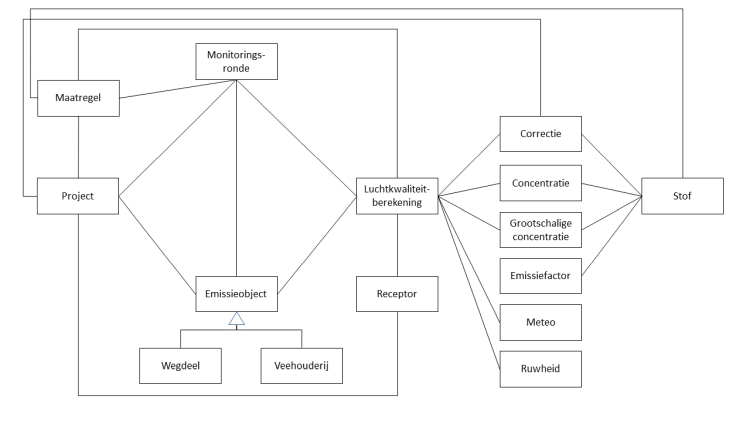
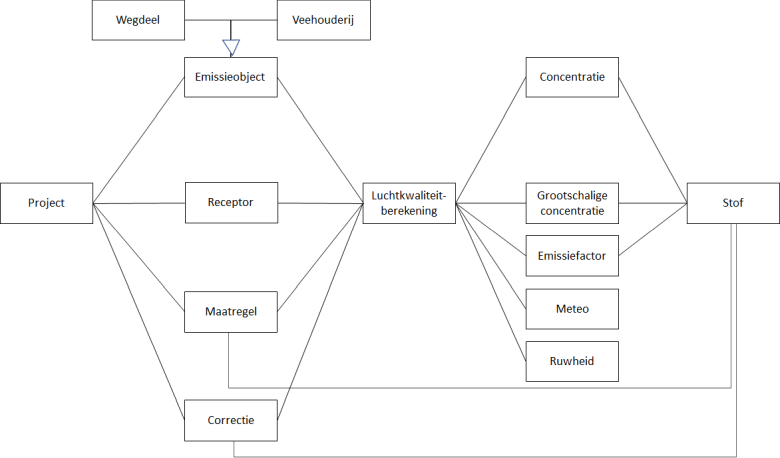
Conceptueel model aangepast
Monitoringronde verwijderd, positionering concepten aangepast

diff --git a/docs/index.html b/docs/index.html
@@ -61,7 +61,7 @@
 	</head>
 	<body>
 		<h1 id="title">Informatiemodel Monitoring Luchtkwaliteit</h1>
-		<h2 id="subtitle">27 oktober 2021</h2>
+		<h2 id="subtitle">1 november 2021</h2>
 		<section id='abstract'>
 			<p>Dit informatiemodel is gericht op de ondersteuning van de monitoring van de luchtkwaliteit in het kader van de Omgevingswet en het Schone Lucht Akkoord. Het is een beschrijving van de gegevens die worden uitgewisseld met het Centraal Instrument Monitoring Luchtkwaliteit (CIMLK). Deze wordt ontwikkeld door RIVM in opdracht van het ministerie van Infrastructuur en Waterstaat.</p>
 		</section>
@@ -198,12 +198,7 @@
 				<section>
 					<h4>Luchtkwaliteitberekening</h4>
 					<p>Het bepalen van de concentraties van stoffen op rekenpunten als gevolg van de emissies van die stoffen door objecten en de verspreiding hiervan in de fysieke leefomgeving.</p>
-					<p>In een luchtkwaliteitberekening worden alle objecten meegenomen die invloed hebben op de verspreiding van de emissies van de emissieobjecten, zoals meteo, ruwheid en emissiefactoren, en op het berekende niveau van de luchtkwaliteit op de locatie waarvoor de berekening uitgevoerd wordt, zoals grootschalige concentraties, correctiegebieden en relevante maatregelen. Het resultaat van een berekening is de jaargemiddelde concentratie per stof op de receptoren die door de gebruiker in het betreffende project aangegeven zijn. Voor PM10 worden ook aantallen overschrijdingsdagen berekend.</p>
-				</section>
-				<section>
-					<h4>Monitoringsronde</h4>
-					<p>Jaarlijkse cyclus van het actualiseren van gegevens en het uitvoeren van luchtkwaliteit-berekeningen op voor de monitoring relevante rekenpunten.</p>
-					<p>In een monitoringsronde worden emissieobjecten en alle gegevens voor een luchtkwaliteitberekening geactualiseerd voor het gepasseerde jaar en één of meerdere toekomstjaren. Hierbij wordt tevens de voortgang van SLA-maatregelen in beeld gebracht om de doelstellingen uit het SLA te monitoren.</p>
+					<p>In een luchtkwaliteitberekening worden alle objecten meegenomen die invloed hebben op de verspreiding van de emissies van de emissieobjecten, zoals meteo, ruwheid en emissiefactoren, en op het berekende niveau van de luchtkwaliteit op de locatie waarvoor de berekening uitgevoerd wordt, zoals grootschalige concentraties, correctiegebieden en relevante maatregelen. Het resultaat van een berekening is de jaargemiddelde concentratie per stof op de receptoren die door de gebruiker in het betreffende project aangegeven zijn. Voor PM10 worden ook aantallen overschrijdingsdagen berekend. In een monitoringsronde worden emissieobjecten en alle gegevens voor een luchtkwaliteitberekening geactualiseerd voor het gepasseerde jaar en één of meerdere toekomstjaren.</p>
 				</section>
 				<section>
 					<h4>Project</h4>
